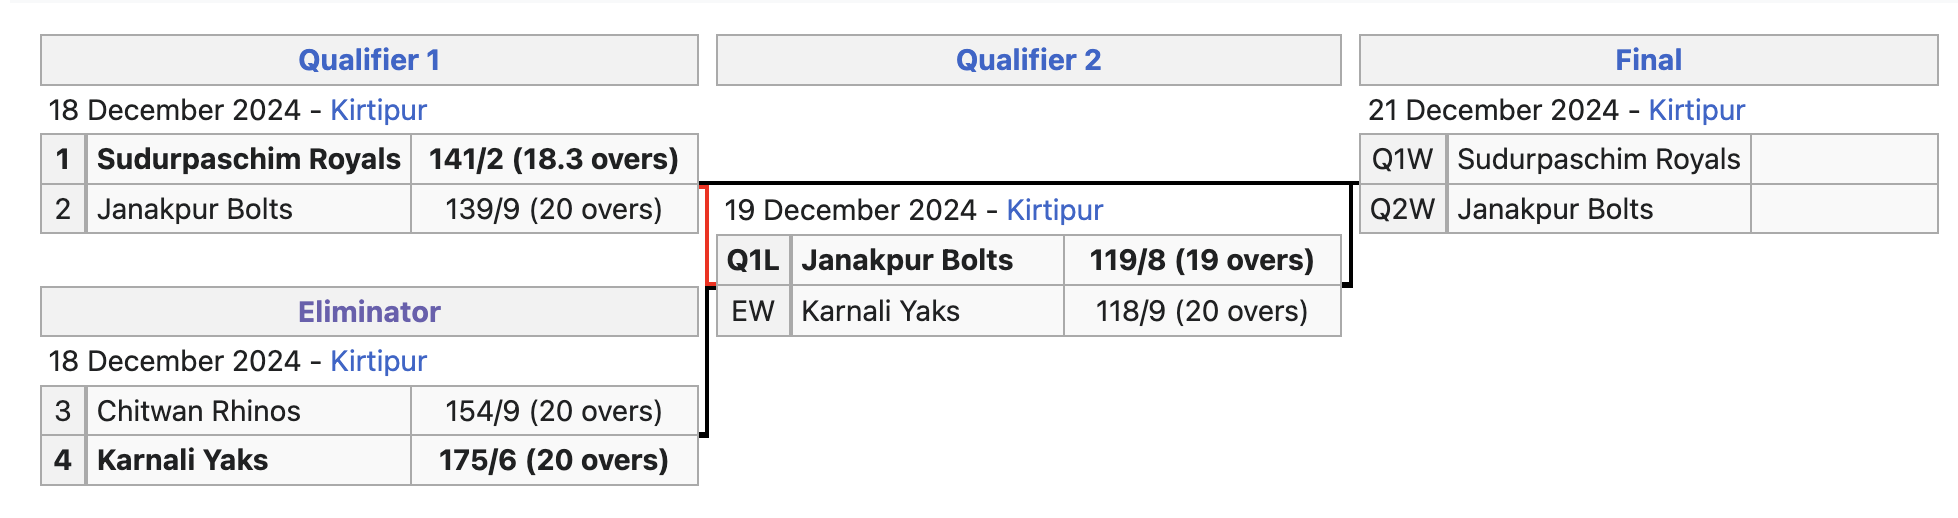
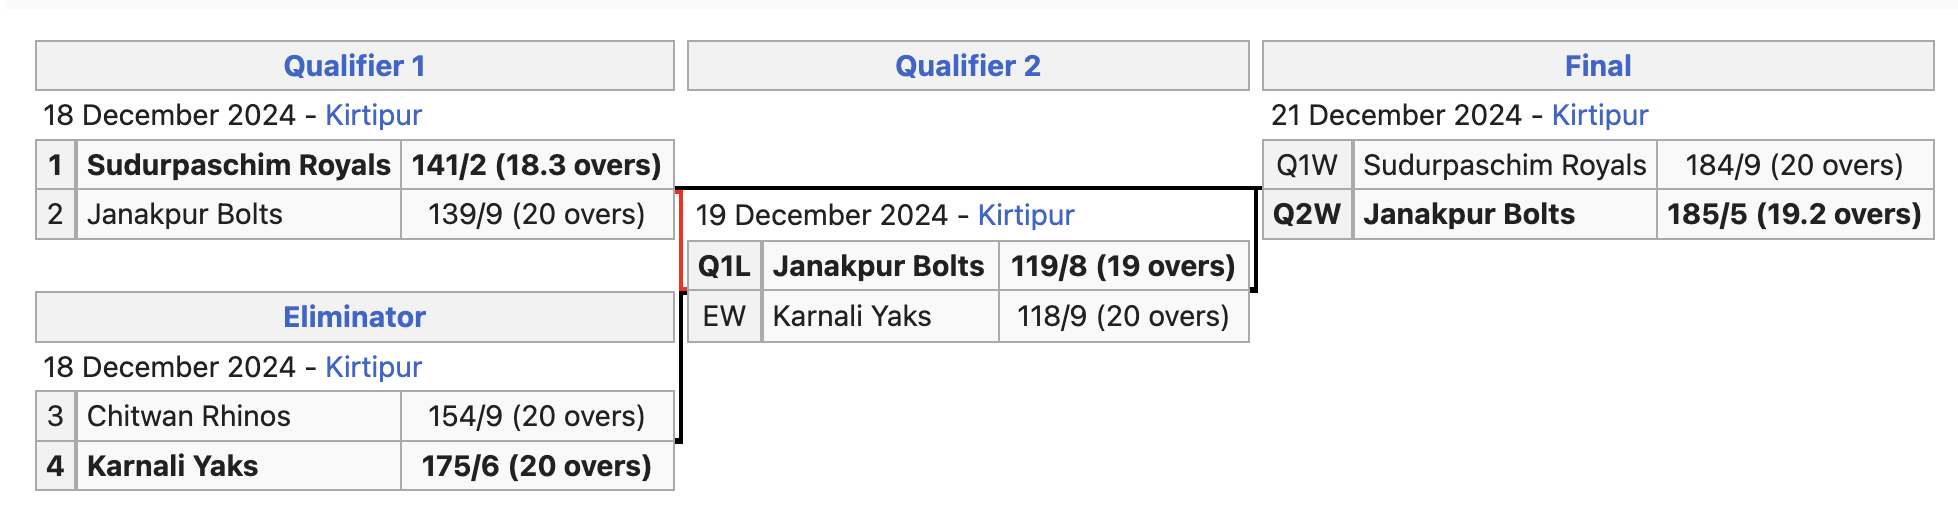
final commmit npl 2024

Changed region(s): [[0.0, 0.0618, 0.9969, 0.9575]]

diff --git a/app/templates/about.html b/app/templates/about.html
@@ -29,6 +29,77 @@
         <div class="fb-like" data-href="https://facebook.com/nplstandings" data-width="" data-layout="" data-action="" data-size="" data-share="true"></div>
     </div>
 
+    <div class="container mt-5">
+        <h2 text-center mb-4 text-secondary>Nepal Premier League 2024 Play-offs</h2>
+        <!-- Image Display -->
+        <div class="text-center" >
+            <img src="{{ url_for('static', filename='assets/img/playoff.png') }}" 
+                 alt="Play-offs Bracket" 
+                 class="img-fluid" 
+                 style="border: 1px solid #ddd; border-radius: 8px; box-shadow: 0 4px 6px rgba(0,0,0,0.2);">
+        </div>
+    </div>
+    
+    <!-- Standings Section -->
+    <div class="container mt-5">
+        <div class="row justify-content-center">
+            <div class="col-lg-10 col-md-12">
+                <div class=" shadow-sm border-light rounded">
+                        <h2 class="text-center mb-4 text-secondary">Nepal Premier League 2024 - League Standings</h2>
+                        <span class="logo"> <strong>Eventual champion = Janakpur Bolts </strong> </span><br>
+                        <span class="logo"> Runner-up = Sudurpaschim Royals </span>
+                        <!-- Responsive Wrapper -->
+                        <div id="standingsContainer" class="table-responsive">
+                            <table class="table table-hover table-bordered table-striped" id="standingsTable">
+                                <thead class="thead-dark">
+                                    <tr>
+                                        <th>#</th>
+                                        <th>Team</th>
+                                        <th>Matches</th>
+                                        <th>Wins</th>
+                                        <th>Losses</th>
+                                        <th>Points</th>
+                                    </tr>
+                                </thead>
+                                <tbody>
+                                    {% for standing in standings %}
+                                    <tr class="table-light">
+                                        <td>{{ loop.index }}</td>
+                                        <td>{{ standing.team }}
+                                            {% if loop.index <= 4 %}
+                                                (Q)
+                                            {% elif loop.index > 4 and loop.index <= 8 %}
+                                                (E)
+                                            {% endif %}
+                                        </td>
+                                        <td>{{ standing.pld }}</td>
+                                        <td>{{ standing.w }}</td>
+                                        <td>{{ standing.l }}</td>
+                                        <td>{{ standing.pts }}</td>
+                                    </tr>
+                                    {% endfor %}
+                                </tbody>
+                            </table>
+                        </div>
+                        <div class="base">
+                        <span class="logo"> (E) Eliminated from play-off race.</span> <br>
+                        <span class="blue"> (Q) Advance to Qualifier. </span>
+                        
+                        </div>
+                        <!-- Social Media Share Links -->
+                        <div class="share-buttons text-center mt-4">
+                            <a href="https://www.facebook.com/sharer/sharer.php?u={{ request.url_root }}" 
+                            target="_blank" class="btn btn-primary">Share on Facebook</a>
+    
+                            <a href="https://twitter.com/intent/tweet?url={{ request.url_root }}&text=Nepal%20Premier%20League%20Standings" 
+                            target="_blank" class="btn btn-info">Share on Twitter</a>
+                        </div>
+                    </div>
+            </div>
+        </div>
+    </div>
+    
+
 
     <div class="hero">
         <div class="container text-center">

diff --git a/app/templates/home.html b/app/templates/home.html
@@ -23,7 +23,8 @@
         <div class="col-lg-10 col-md-12">
             <div class=" shadow-sm border-light rounded">
                     <h2 class="text-center mb-4 text-secondary">Nepal Premier League 2024 - League Standings</h2>
-
+                    <span class="logo"> <strong>Eventual champion = Janakpur Bolts </strong> </span><br>
+                    <span class="logo"> Runner-up = Sudurpaschim Royals </span>
                     <!-- Responsive Wrapper -->
                     <div id="standingsContainer" class="table-responsive">
                         <table class="table table-hover table-bordered table-striped" id="standingsTable">
@@ -60,6 +61,7 @@
                     <div class="base">
                     <span class="logo"> (E) Eliminated from play-off race.</span> <br>
                     <span class="blue"> (Q) Advance to Qualifier. </span>
+                    
                     </div>
                     <!-- Social Media Share Links -->
                     <div class="share-buttons text-center mt-4">

diff --git a/app/routes.py b/app/routes.py
@@ -25,7 +25,8 @@ def privacy_policy():
 
 @main.route('/about')
 def about():
-    return render_template('about.html')  # About Page
+    standings = Standing.query.order_by(Standing.w.desc()).all()
+    return render_template('about.html', standings=standings)  # About Page
 
 @main.route('/news')
 @cache.cached(timeout=60*60)
